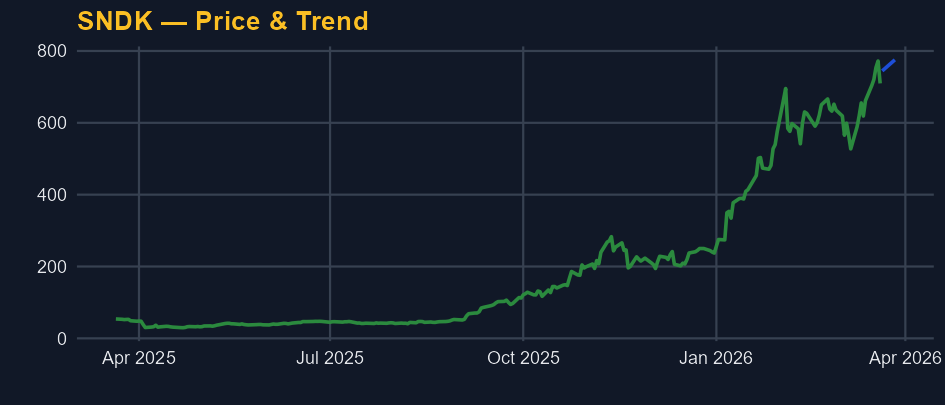
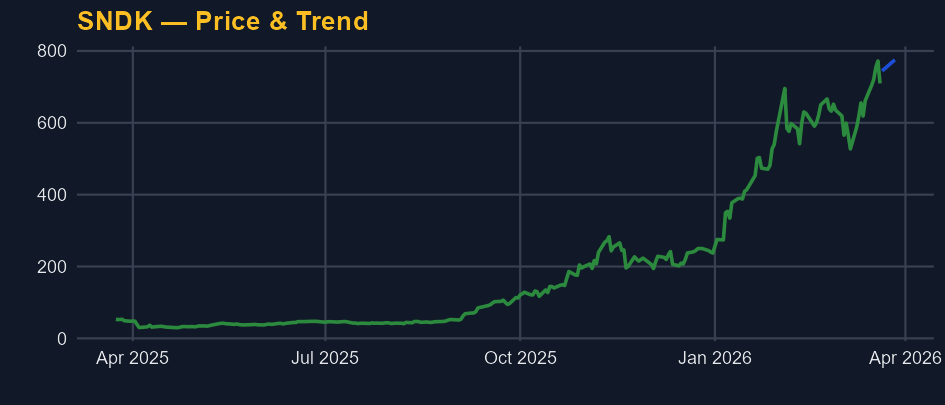
auto update

diff --git a/strategy.html b/strategy.html
@@ -283,7 +283,7 @@ pre {
   <div class='header-bar'>
     <div class='header-title'>QIAN FINANCIAL TIMES</div>
     <div class='header-meta'>
-      2026-03-21 · Beijing 2026-03-21 22:50:08 · Version 20260321.142
+      2026-03-22 · Beijing 2026-03-23 01:22:02 · Version 20260322.143
     </div>
   </div>
 
@@ -313,10 +313,10 @@ SPY MA200 : 656.82
 State     : RISK_OFF — SPY < 200-day MA
 
 🔄 Rebalance (medium-term):
-Medium-term strategy — last rebalance 118 day(s) ago, rebalance can be considered if there is a regime change.
+Medium-term strategy — last rebalance 119 day(s) ago, rebalance can be considered if there is a regime change.
 
 ⏱ AutoRun:
-Last run: 15h 43m ago</pre>
+Last run: 1.4 days ago</pre>
         <div class='card-subtitle' style='margin-top:10px;'>Suggested Weights (core & momentum)</div>
         <div class='weights-list'><div class='weight-row'><span class='w-symbol'>VT</span><span class='w-bar'><span class='w-bar-fill' style='width:14%'></span></span><span class='w-pct'>14%</span></div><div class='weight-row'><span class='w-symbol'>AOR</span><span class='w-bar'><span class='w-bar-fill' style='width:14%'></span></span><span class='w-pct'>14%</span></div><div class='weight-row'><span class='w-symbol'>PLTR</span><span class='w-bar'><span class='w-bar-fill' style='width:14%'></span></span><span class='w-pct'>14%</span></div><div class='weight-row'><span class='w-symbol'>VYM</span><span class='w-bar'><span class='w-bar-fill' style='width:14%'></span></span><span class='w-pct'>14%</span></div><div class='weight-row'><span class='w-symbol'>SPY</span><span class='w-bar'><span class='w-bar-fill' style='width:14%'></span></span><span class='w-pct'>14%</span></div><div class='weight-row'><span class='w-symbol'>SNDK</span><span class='w-bar'><span class='w-bar-fill' style='width:5.37%'></span></span><span class='w-pct'>5.37%</span></div><div class='weight-row'><span class='w-symbol'>MRNA</span><span class='w-bar'><span class='w-bar-fill' style='width:8.51%'></span></span><span class='w-pct'>8.51%</span></div><div class='weight-row'><span class='w-symbol'>CIEN</span><span class='w-bar'><span class='w-bar-fill' style='width:16.12%'></span></span><span class='w-pct'>16.12%</span></div></div>
         <div class='alloc-box'>
@@ -335,23 +335,23 @@ Last run: 15h 43m ago</pre>
         <div class='chart-grid'>
           <div class='chart-block'>
   <div class='chart-title'>VT</div>
-  <img src='chart_VT.png?v=20260321' class='chart-img'>
+  <img src='chart_VT.png?v=20260322' class='chart-img'>
 </div>
 <div class='chart-block'>
   <div class='chart-title'>AOR</div>
-  <img src='chart_AOR.png?v=20260321' class='chart-img'>
+  <img src='chart_AOR.png?v=20260322' class='chart-img'>
 </div>
 <div class='chart-block'>
   <div class='chart-title'>PLTR</div>
-  <img src='chart_PLTR.png?v=20260321' class='chart-img'>
+  <img src='chart_PLTR.png?v=20260322' class='chart-img'>
 </div>
 <div class='chart-block'>
   <div class='chart-title'>VYM</div>
-  <img src='chart_VYM.png?v=20260321' class='chart-img'>
+  <img src='chart_VYM.png?v=20260322' class='chart-img'>
 </div>
 <div class='chart-block'>
   <div class='chart-title'>SPY</div>
-  <img src='chart_SPY.png?v=20260321' class='chart-img'>
+  <img src='chart_SPY.png?v=20260322' class='chart-img'>
 </div>
         </div>
       </div>
@@ -362,15 +362,15 @@ Last run: 15h 43m ago</pre>
         <div class='chart-grid'>
           <div class='chart-block'>
   <div class='chart-title'>SNDK</div>
-  <img src='chart_SNDK.png?v=20260321' class='chart-img'>
+  <img src='chart_SNDK.png?v=20260322' class='chart-img'>
 </div>
 <div class='chart-block'>
   <div class='chart-title'>MRNA</div>
-  <img src='chart_MRNA.png?v=20260321' class='chart-img'>
+  <img src='chart_MRNA.png?v=20260322' class='chart-img'>
 </div>
 <div class='chart-block'>
   <div class='chart-title'>CIEN</div>
-  <img src='chart_CIEN.png?v=20260321' class='chart-img'>
+  <img src='chart_CIEN.png?v=20260322' class='chart-img'>
 </div>
         </div>
       </div>
@@ -1117,10 +1117,10 @@ Last run: 15h 43m ago</pre>
       <div class='card'>
         <div class='card-title'>Market Clock</div>
         <div class='time-row'>
-          <div class='time-pill'>Beijing: 2026-03-21 22:50:08</div>
-          <div class='time-pill'>New York: 2026-03-21 10:50:08</div>
+          <div class='time-pill'>Beijing: 2026-03-23 01:22:02</div>
+          <div class='time-pill'>New York: 2026-03-22 13:22:02</div>
           <div class='time-pill'>US Market Closed (Weekend)</div>
-          <div class='time-pill'>Last AutoRun: 15h 43m ago</div>
+          <div class='time-pill'>Last AutoRun: 1.4 days ago</div>
         </div>
       </div>
 
